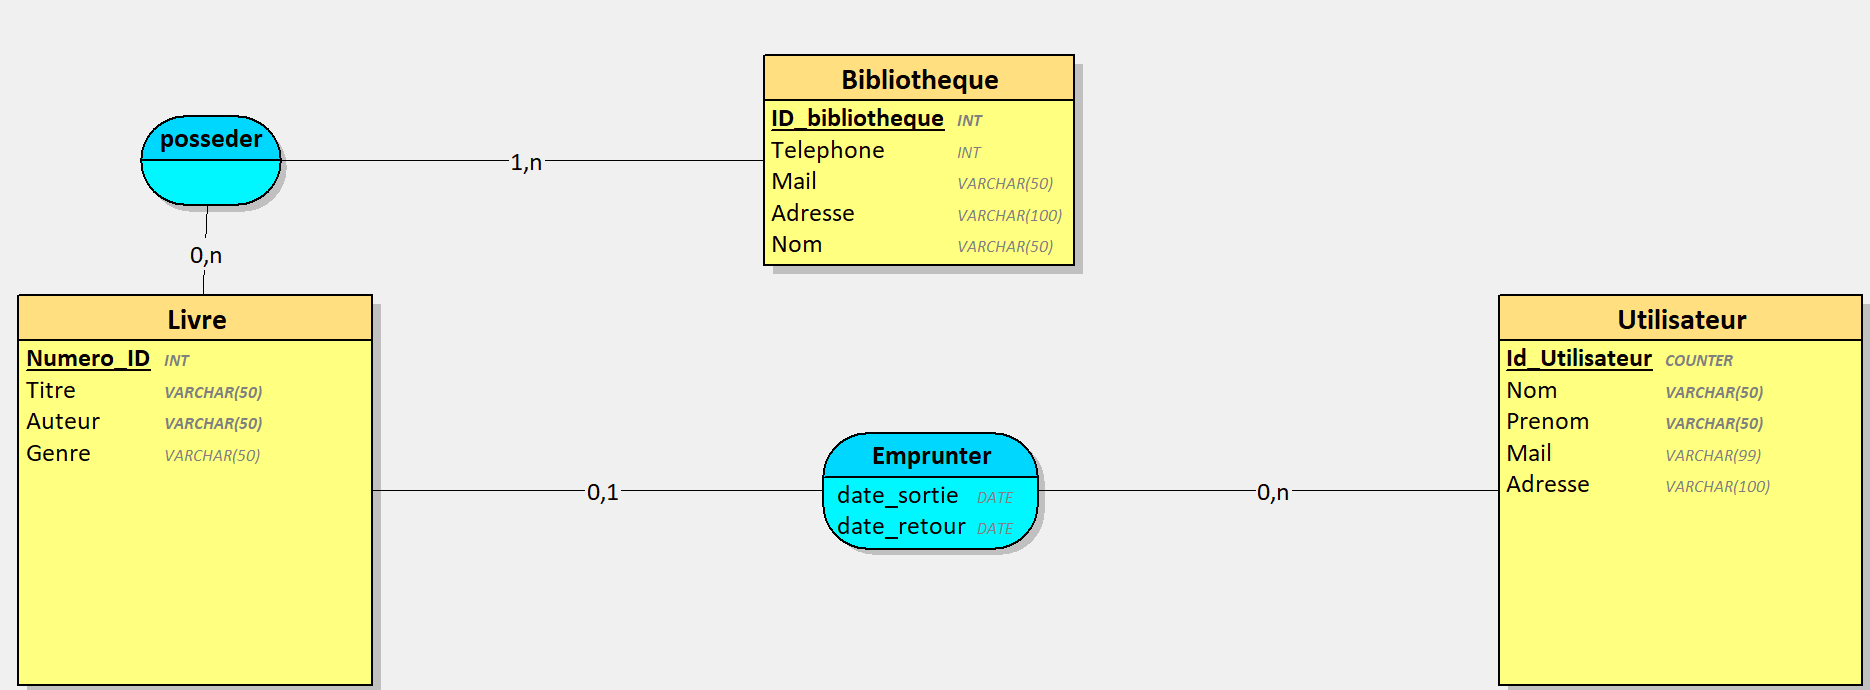
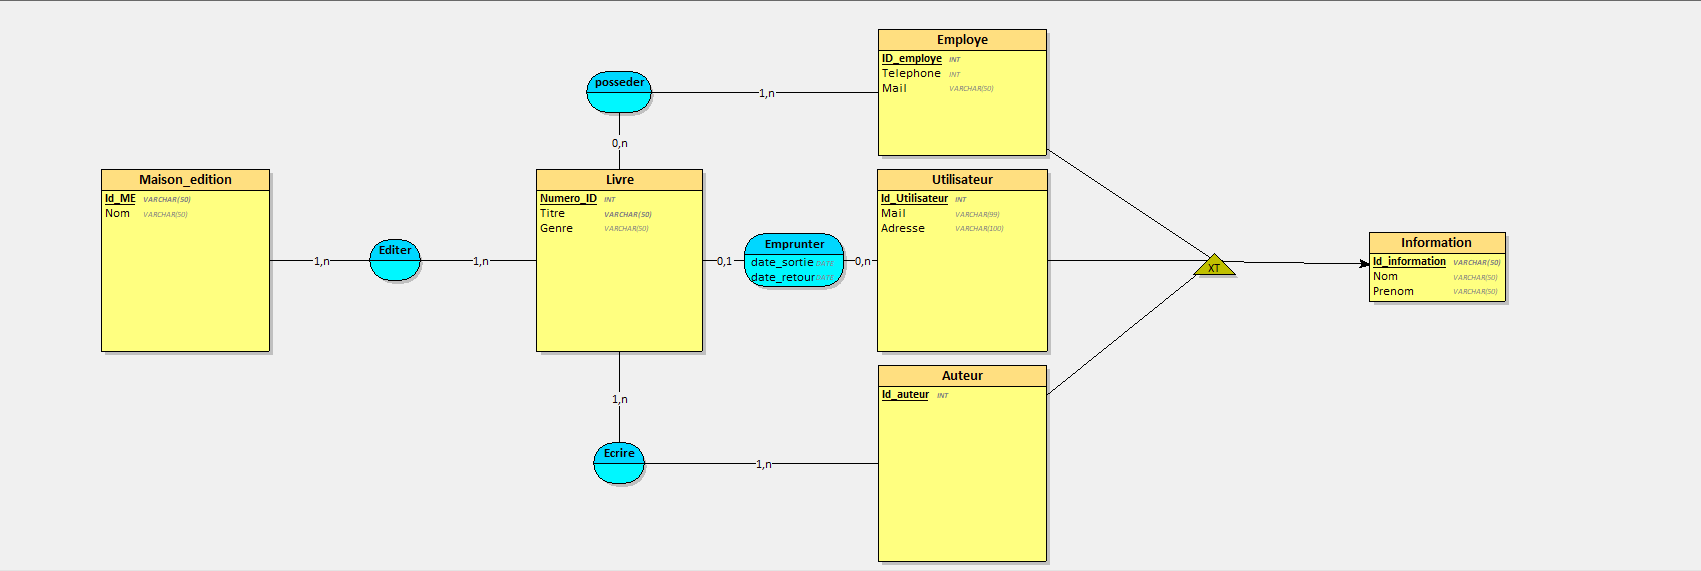
Add(): V2 MERISE

diff --git a/README.md b/README.md
@@ -5,11 +5,16 @@
 ## MLD
 
 
-Livre = (<u>Numero_ID INT</u>, Titre VARCHAR(50), Auteur VARCHAR(50), Genre VARCHAR(50));<br>
-Utilisateur = (<u>Id_Utilisateur INT</u>, Nom VARCHAR(50), Prenom VARCHAR(50), Mail VARCHAR(99), Adresse VARCHAR(100));<br>
-Bibliotheque = (<u>ID_bibliotheque INT</u>, Telephone INT, Mail VARCHAR(50), Adresse VARCHAR(100), Nom VARCHAR(50));<br>
-Emprunter = (<u>#Numero_ID</u>, date_sortie DATE, date_retour DATE,<u>#Id_Utilisateur</u>);<br>
-posseder = (<u>#Numero_ID, #ID_bibliotheque</u>);<br>
+Livre = (Numero_ID INT, Titre VARCHAR(50), Genre VARCHAR(50));<br>
+Information = (Id_information VARCHAR(50), Nom VARCHAR(50), Prenom VARCHAR(50));<br>
+Maison_edition = (Id_ME VARCHAR(50), Nom VARCHAR(50));<br>
+Utilisateur = (Id_Utilisateur INT, Mail VARCHAR(99), Adresse VARCHAR(100), #Id_information);<br>
+Employe = (ID_employe INT, Telephone INT, Mail VARCHAR(50), #Id_information);<br>
+Auteur = (Id_auteur INT, #Id_information);<br>
+Emprunter = (#Numero_ID, date_sortie DATE, date_retour DATE, #Id_Utilisateur);<br>
+posseder = (#Numero_ID, #ID_employe);<br>
+Ecrire = (#Numero_ID, #Id_auteur);<br>
+Editer = (#Numero_ID, #Id_ME);<br>
 
 
 ## SCRIPT SQL
@@ -18,27 +23,49 @@ posseder = (<u>#Numero_ID, #ID_bibliotheque</u>);<br>
 CREATE TABLE Livre(
    Numero_ID INT,
    Titre VARCHAR(50) NOT NULL,
-   Auteur VARCHAR(50) NOT NULL,
    Genre VARCHAR(50),
    PRIMARY KEY(Numero_ID)
 );
 
-CREATE TABLE Utilisateur(
-   Id_Utilisateur INT,
-   Nom VARCHAR(50) NOT NULL,
-   Prenom VARCHAR(50) NOT NULL,
-   Mail VARCHAR(99),
-   Adresse VARCHAR(100),
-   PRIMARY KEY(Id_Utilisateur)
+CREATE TABLE Information(
+   Id_information VARCHAR(50),
+   Nom VARCHAR(50),
+   Prenom VARCHAR(50),
+   PRIMARY KEY(Id_information)
 );
 
-CREATE TABLE Bibliotheque(
-   ID_bibliotheque INT,
+CREATE TABLE Maison_edition(
+   Id_ME VARCHAR(50),
+   Nom VARCHAR(50),
+   PRIMARY KEY(Id_ME)
+);
+
+CREATE TABLE Utilisateur(
+   Id_Utilisateur INT,
+   Mail VARCHAR(99),
+   Adresse VARCHAR(100),
+   Id_information VARCHAR(50) NOT NULL,
+   PRIMARY KEY(Id_Utilisateur),
+   UNIQUE(Id_information),
+   FOREIGN KEY(Id_information) REFERENCES Information(Id_information)
+);
+
+CREATE TABLE Employe(
+   ID_employe INT,
    Telephone INT,
    Mail VARCHAR(50),
-   Adresse VARCHAR(100),
-   Nom VARCHAR(50),
-   PRIMARY KEY(ID_bibliotheque)
+   Id_information VARCHAR(50) NOT NULL,
+   PRIMARY KEY(ID_employe),
+   UNIQUE(Id_information),
+   FOREIGN KEY(Id_information) REFERENCES Information(Id_information)
+);
+
+CREATE TABLE Auteur(
+   Id_auteur INT,
+   Id_information VARCHAR(50) NOT NULL,
+   PRIMARY KEY(Id_auteur),
+   UNIQUE(Id_information),
+   FOREIGN KEY(Id_information) REFERENCES Information(Id_information)
 );
 
 CREATE TABLE Emprunter(
@@ -53,11 +80,25 @@ CREATE TABLE Emprunter(
 
 CREATE TABLE posseder(
    Numero_ID INT,
-   ID_bibliotheque INT,
-   PRIMARY KEY(Numero_ID, ID_bibliotheque),
+   ID_employe INT,
+   PRIMARY KEY(Numero_ID, ID_employe),
    FOREIGN KEY(Numero_ID) REFERENCES Livre(Numero_ID),
-   FOREIGN KEY(ID_bibliotheque) REFERENCES Bibliotheque(ID_bibliotheque)
+   FOREIGN KEY(ID_employe) REFERENCES Employe(ID_employe)
 );
 
+CREATE TABLE Ecrire(
+   Numero_ID INT,
+   Id_auteur INT,
+   PRIMARY KEY(Numero_ID, Id_auteur),
+   FOREIGN KEY(Numero_ID) REFERENCES Livre(Numero_ID),
+   FOREIGN KEY(Id_auteur) REFERENCES Auteur(Id_auteur)
+);
 
+CREATE TABLE Editer(
+   Numero_ID INT,
+   Id_ME VARCHAR(50),
+   PRIMARY KEY(Numero_ID, Id_ME),
+   FOREIGN KEY(Numero_ID) REFERENCES Livre(Numero_ID),
+   FOREIGN KEY(Id_ME) REFERENCES Maison_edition(Id_ME)
+);
 ```
